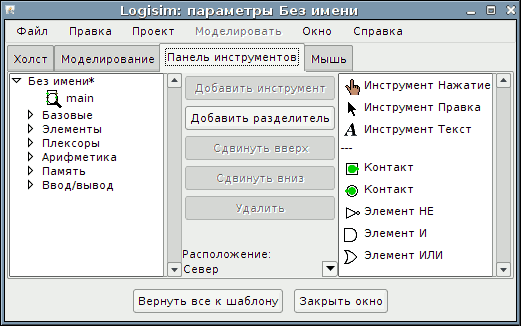
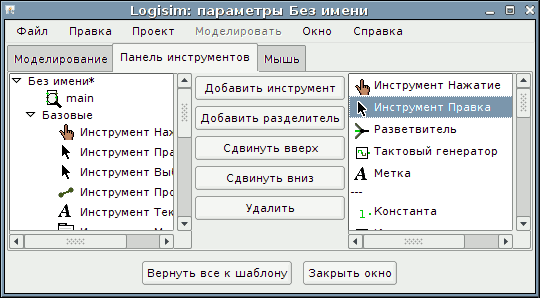
Ru doc: updated pages and screen shots for new preferences dialogs. Two old screen shots are deleted from En version too.
git-svn-id: https://svn.code.sf.net/p/circuit/code/trunk@154 70edf91d-0b9e-4248-82e7-2488d7716404

diff --git a/doc/ru/html/guide/prefs/layout.html b/doc/ru/html/guide/prefs/layout.html
@@ -1,0 +1,37 @@
+<html>
+<head>
+    <meta http-equiv="content-type" content="text/html; charset=UTF-8">
+	<title>Вкладка Чертёж</title>
+</head>
+<body bgcolor="FFFFFF">
+
+<h1>Вкладка Чертёж</h1>
+
+<center><img src="../../../img-guide/prefs-layout.png"></center>
+
+<p>На этой вкладке находятся настройки, влияющие на поведение редактора чертежа схемы.</p>
+<ul>
+
+<li><p><b>Вид для печати:</b> определяет, показывать ли схемы на экране так же, как они выводятся через принтер. Как правило этот пункт отключен, и Logisim показывает схемы на экране с отображением текущего состояния схемы и выводит некоторые подсказки связанные с интерфейсом компонентов (самое заметное - он отрисовывает ножки элементов ИЛИ чтобы показать, где они должны присоединяться). А вид для печати не показывает состояние и эти подсказки по интерфейсу.</p></li> 
+ 
+<li><p><b>Показывать ореол:</b> определяет, нужно ли рисовать голубой овал вокруг компонента или инструмента, атрибуты которого в данный момент отображаются в таблице атрибутов.</p></li> 
+ 
+<li><p><b>Показывать подсказки для компонентов:</b> указывает, следует ли отображать "подсказки", которые будут появляться на время при наведении указателя мыши на компоненты, поддерживающие их. Например, если вы подержите указатель над контактом компонента подсхемы, то отобразится метка соответствующего контакта внутри подсхемы. Наведение курсора на один из концов разветвителя скажет вам, каким битам соответствует этот конец. Кроме того, все компоненты библиотек Плексоры, Арифметика и Память предоставляют информацию о своих входах и выходах через подсказки.</p></li> 
+
+<li><p><b>Сохранять соединения при перемещении:</b> указывает, должен ли Logisim добавлять новые провода, когда компоненты перемещены, чтобы сохранять их соединения. По умолчанию он включен - хотя он может быть временно отключен нажатием клавиши Shift при перемещении компонентов. Если этот флажок отключен, то по умолчанию при перемещении провода не будут добавляться - но вы можете включить это временно нажатием клавиши Shift при перемещении.</p></li>
+
+
+<li><p><b>Показывать призраки во время добавления:</b> когда включено, и когда выбран инструмент для добавления нового компонента, при движении мыши по холсту отрисовывается светло-серый контур компонента. Например, если вы выбираете инструмент Элемент И, и двигаете мышь по окну (без нажатия кнопки мыши), то серый контур элемента И отрисовывается там, где элемент И появится после нажатия мыши.</p></li>
+
+<li><p><b>После добавления компонента:</b> по умолчанию, после добавления каждого компонента, Logisim переключается на Инструмент Правка, позволяющий перемещать компоненты и добавлять провода. Этот выпадающий список позволяет вам изменить это поведение так, чтобы Logisim оставался на том же инструменте для добавления ещё одного такого же компонента, пока вы сами не выберите Инструмент Правка. (Это было поведение Logisim по умолчанию до Logisim 2.3.0. Хотя такое поведение более интуитивно, оно требует больше перемещений мыши для переключения между инструментами.)</p></li>
+
+<li><p><strong>Первое основание при взаимодействии с проводом:</strong> настраивает, как отображаются значения, когда на проводе щёлкнули Инструментом Нажатие. Щелчок на проводе временно отображает значение, пока пользователь не щёлкнет в другом месте схемы.</p></li>
+
+<li><p><strong>Второе основание при нажатии на провод:</strong> настраивает вторую часть отображаемого значения.</p></li>
+
+</ul>
+
+<p><strong>Далее:</strong> <em><a href="exp.html">Вкладка Экспериментальные</a></em>.</p>
+
+</body>
+</html>

diff --git a/doc/ru/html/guide/subcirc/using.html b/doc/ru/html/guide/subcirc/using.html
@@ -16,7 +16,7 @@
 <center><img src="../../../img-guide/subcirc-4-done.png"></center>
 <p>Наша схема для мультиплексора 4-в-1 использует три копии мультиплексора 2-в-1, каждая из которых отрисована в виде коробки с контактами вдоль краёв. Контакты на этой коробке соответствую входным и выходным контактам в схеме 2:1 MUX. Два контакта на западном крае коробки соответствуют двум контактам, направленным на восток в схеме 2:1 MUX; контакт на восточной стороне коробки соответствует контакту схемы 2:1 MUX, направленному на запад (который является выходным контактом); а контакт на южной стороне коробки соответствует контакту схемы 2:1 MUX, направленному на север. Порядок контактов на западной стороне коробки соответствует их порядку сверху вниз на чертеже подсхемы. (Если бы было несколько контактов на северной или южной стороне коробки, то их порядок соответствовал бы порядку слева направо в подсхеме.)</p>
 
-<p>Если контакты на чертеже подсхемы имеют метки, связанные с ними, то Logisim будет показывать эти метки в <strong>подсказке</strong> (то есть во временном текстовом поле), когда пользователь наведёт мышь на соответствующее место компонента подсхемы. (Если вы находите эти подсказки раздражающими, вы можете отключить их через <a href="../opts/canvas.html">вкладку Холст окна Параметры Проекта</a>.)</p>
+<p>Если контакты на чертеже подсхемы имеют метки, связанные с ними, то Logisim будет показывать эти метки в <strong>подсказке</strong> (то есть во временном текстовом поле), когда пользователь наведёт мышь на соответствующее место компонента подсхемы. (Если вы находите эти подсказки раздражающими, вы можете отключить их через <a href="../prefs/layout.html">вкладку Чертёж окна Настройки</a>.)</p>
 <center><img src="../../../img-guide/subcirc-4-tip.png"></center>
 <p>Некоторые другие компоненты тоже будут показывать эти подсказки: для некоторых контактов встроенных <a href="../../libs/mem/flipflops.html">триггеров</a>, например, проведение мышью над ними объясняет, что делает этот контакт.</p>
 

diff --git a/doc/ru/html/guide/prefs/window.html b/doc/ru/html/guide/prefs/window.html
@@ -1,0 +1,28 @@
+<html>
+<head>
+    <meta http-equiv="content-type" content="text/html; charset=UTF-8">
+	<title>Вкладка Окно</title>
+</head>
+<body bgcolor="FFFFFF">
+
+<h1>Вкладка Окно</h1>
+
+<center><img src="../../../img-guide/prefs-window.png"></center>
+
+<p>На этой вкладке находятся настройки, влияющие на внешний вид главного окна Logisim.</p>
+<ul>
+
+<li><p><b>Показать скорость тактов:</b> если выбрано, то когда такты включены, Logisim отображает скорость, с которой он выполняет такты. Скорость тактов измеряется как средняя за предыдущую 1000 тактов. (Выключение тактов или изменение максимальной тактовой частоты очистит эту историю.)</p>
+
+<p>Эта фактическая скорость тактов может быть намного меньше, чем вы бранная тактовая частота, потому что Logisim не может моделировать большие схем с очень большой скоростью. Например, максимальная скорость Logisim для достаточно большой схемы может быть 16 Гц; вы можете выбрать более высокую тактовую частоту, но фактическая скорость не будет превышать 16 Гц.</p></li>
+
+<li><p><b>Показать панель инструментов проекта:</b> когда выбрано, выше панели проводника доступна маленькая панель инструментов. Эта панель инструментов предоставляет пользователю простой доступ к добавлению, переименованию, переупорядочиванию и удалению схем из проекта, а также поддерживает переключение между редактированием чертежа схемы и её внешнего вида.</p></dd>
+
+</li><li><p><b>Расположение панели инструментов:</b> это выпадающее меню настраивает расположение панели инструментов в пределах окна. Панель инструментов может быть расположена вдоль любой из границ окна, обозначенных как север, юг, восток и запад. Она также может быть скрыта или расположена "посередине вниз" - то есть слева от холста, но справа от панели проводника и таблицы атрибутов.</p></li>
+
+</ul>
+
+<p><strong>Далее:</strong> <em><a href="layout.html">Вкладка Чертёж</a></em>.</p>
+
+</body>
+</html>

diff --git a/doc/ru/html/guide/menu/file.html b/doc/ru/html/guide/menu/file.html
@@ -15,6 +15,9 @@
 <dt><strong>Открыть...</strong></dt>
 <dd><p>Открывает существующий файл как проект в новом окне.</p></dd>
 
+<dt><strong>Открыть недавние</strong></dt>
+<dd><p>Открывает недавно открытый проект в новом окне без приглашения пользователя к навигации через диалог выбора файла.</p></dd>
+
 <dt><strong>Закрыть</strong></dt>
 <dd><p>Закрывает все окна, связанные с просматриваемым в данный момент проектом.</p></dd>
 
@@ -49,7 +52,7 @@
 
 <li><b>Масштабный коэффициент:</b> с помощью этого ползунка вы можете изменять масштаб изображений, в котором они сохраняются в файлы.</li>
 
-<li><b>Вид для печати:</b> следует ли использовать "<a href="../opts/canvas.html">вид для печати</a>" при экспорте схем.</li>
+<li><b>Вид для печати:</b> следует ли использовать "<a href="../prefs/layout.html">вид для печати</a>" при экспорте схем.</li>
 
 </ul>
 <p>После нажатия OK Logisim покажет диалоговое окно выбора файла. Если вы выбрали одну схему, выберите файл, в который изображение должно быть помещено. Если вы выбрали несколько схем, выберите директорию, куда файлы должны быть помещены; Logisim назовёт изображения, основываясь на названиях схем (<tt>main.png</tt> например).</p>
@@ -71,7 +74,7 @@
 
 <li><b>Повернуть для подгонки:</b> если установлено, то Logisim будет поворачивать каждую схему на 90 градусов, когда схема слишком велика, чтобы уместиться на странице, и её не нужно так же сильно масштабировать, когда она повёрнута на 90 градусов.</li>
 
-<li><b>Вид для печати:</b> следует ли использовать "<a href="../opts/canvas.html">вид для печати</a>" при печати схем.</li>
+<li><b>Вид для печати:</b> следует ли использовать "<a href="../prefs/layout.html">вид для печати</a>" при печати схем.</li>
 
 </ul>
 <p>После нажатия OK Logisim покажет диалоговое окно установок страницы до печати схем.</p>

diff --git a/doc/ru/html/guide/opts/index.html b/doc/ru/html/guide/opts/index.html
@@ -10,15 +10,15 @@
 <p>Logisim поддерживает две категории параметров конфигурации: <em>настройки приложения</em> и <em>параметры проекта</em>. Настройки приложения охватывают все открытые проекты, а параметры проекта специфичны для одного определённого проекта. В этом разделе рассматриваются параметры проекта; <a href="../prefs/">настройки приложения</a> описаны в другом разделе.</p>
 
 <p>Вы можете просматривать и редактировать параметры проекта через пункт Параметры... из меню Проект. Это вызовет окно Параметры с четырьмя вкладками.</p.
-><center><img src="../../../img-guide/opts-canvas.png"></center>
+><center><img src="../../../img-guide/opts-simulate.png"></center>
 <p>Мы будем обсуждать каждую из этих вкладок отдельно.</p>
 <blockquote>
-	<a href="canvas.html">Вкладка Холст</a> <br><a href="simulate.html">Вкладка Моделирование</a> <br><a href="toolbar.html">Вкладка Панель инструментов</a> <br><a href="mouse.html">Вкладка Мышь</a>
+	<a href="simulate.html">Вкладка Моделирование</a> <br><a href="toolbar.html">Вкладка Панель инструментов</a> <br><a href="mouse.html">Вкладка Мышь</a>
 </blockquote>
 
 <p>В нижней части окна есть кнопка Вернуть все к шаблону. При её нажатии все параметры и атрибуты инструментов заменяются на настройки из текущего шаблона (выбранного в <a href="../prefs/">настройках приложения</a>).</p>
 
-<p><strong>Далее:</strong> <a href="canvas.html">Вкладка Холст</a>.</p>
+<p><strong>Далее:</strong> <a href="simulate.html">Вкладка Моделирование</a>.</p>
 
 </body>
 </html>

diff --git a/doc/ru/html/guide/prefs/exp.html b/doc/ru/html/guide/prefs/exp.html
@@ -13,10 +13,6 @@
 
 <ul>
 
-<li><p><b>Показать скорость тактов:</b> если выбрано, то когда такты включены, Logisim отображает скорость, с которой он выполняет такты. Скорость тактов измеряется как средняя за предыдущую 1000 тактов. (Выключение тактов или изменение максимальной тактовой частоты очистит эту историю.)</p>
-
-<p>Эта фактическая скорость тактов может быть намного меньше, чем вы бранная тактовая частота, потому что Logisim не может моделировать большие схем с очень большой скоростью. Например, максимальная скорость Logisim для достаточно большой схемы может быть 16 Гц; вы можете выбрать более высокую тактовую частоту, но фактическая скорость не будет превышать 16 Гц.</p></li>
-
 <li><b>Ускорение графики:</b> один из пользователей Logisim отметил, что добавление <tt>-Dsun.java2d.d3d=True</tt> к командной строке кажется улучшает производительность графики Logisim, заставляя его использовать аппаратное ускорение графики. Этот выпадающий список пытается настроить Logisim так, чтобы эта возможность была включена; сообщения о том, влияет ли этот список на производительность, будут приветствоваться. Это не будет иметь никакого эффекта, пока Logisim не будет перезапущен.</p></li>
 
 </ul>

diff --git a/doc/ru/html/libs/base/wiring.html b/doc/ru/html/libs/base/wiring.html
@@ -50,7 +50,7 @@ href="../gates/controlled.html">Управляемый буфер</a>), Logisim 
 
 <p>Когда вы щёлкаете на существующем сегменте провода, используя Инструмент Нажатие, Logisim показывает текущее значение, передаваемое через этот провод. На практике такое поведение полезно для многобитных проводов, чёрный цвет которых не предоставляет никакой информации о том, какое значение передаёт провод.</p>
 
-<p>Для многобитных значений вы можете настроить, как отображается значение (в двоичном, десятичном или шестнадцатеричном виде, например), используя <a href="../../guide/opts/canvas.html">вкладку Холст</a> диалогового окна Параметры проекта.
+<p>Для многобитных значений вы можете настроить, как отображается значение (в двоичном, десятичном или шестнадцатеричном виде, например), используя <a href="../../guide/prefs/layout.html">вкладку Чертёж</a> диалогового окна Настройки Logisim.
 
 <p><a href="../index.html">Назад к <em>Справке по библиотеке</em></a></p>
 

diff --git a/doc/ru/html/guide/prefs/index.html b/doc/ru/html/guide/prefs/index.html
@@ -11,7 +11,7 @@
 
 <p>Вы можете просматривать и редактировать настройки приложения через пункт Настройки... из меню Файл (или из меню Logisim на Mac OS); появится окно с несколькими вкладками. Мы будем обсуждать эти вкладки по отдельности, а потом мы посмотрим, как настройки могут быть заданы с помощью командной строки.</p>
 <blockquote>
-	<a href="template.html">Вкладка Шаблон</a> <br><a href="tools.html">Вкладка Инструменты</a> <br><a href="intl.html">Вкладка Интернациональные</a> <br><a href="exp.html">Вкладка Экспериментальные</a> <br><a href="cmdline.html">Командная строка</a>
+	<a href="template.html">Вкладка Шаблон</a> <br><a href="intl.html">Вкладка Интернациональные</a> <br><a href="window.html">Вкладка Окно</a> <br><a href="layout.html">Вкладка Чертёж</a> <br><a href="exp.html">Вкладка Экспериментальные</a> <br><a href="cmdline.html">Командная строка</a>
 </blockquote>
 
 <p><strong>Далее:</strong> <a href="template.html">Вкладка Шаблон</a>.</p>

diff --git a/doc/ru/html/guide/menu/project.html b/doc/ru/html/guide/menu/project.html
@@ -56,9 +56,6 @@ href="../attrlib/explore.html">в другом месте <em>Руководст
 
 <p>Если вы используете схемы из загруженной библиотеки Logisim, то эти компоненты считаются <q>чёрными ящиками</q>: содержимое схем библиотеки не включается в количество уникальных и подсчитанных рекурсивно.</p></dd>
 
-<dt><strong>Показать панель инструментов проекта</strong></dt>
-<dd><p>Когда этот пункт меню выбран, небольшая панель будет отображена над панелью проводника, предоставляя пользователю простой доступ к добавлению, переименованию, переупорядочиванию и удалению схем из проекта. Панель инструментов также поддерживает переключение между редактированием чертежа схемы и её внешнего вида.</p></dd>
-
 <dt><strong>Параметры...</strong></dt>
 <dd><p>Открывает <a href="../opts/index.html">окно Параметры проекта</a>.</p></dd>
 

diff --git a/doc/ru/html/guide/opts/toolbar.html b/doc/ru/html/guide/opts/toolbar.html
@@ -22,8 +22,6 @@
 
 <li><p><strong>Удалить</strong> удаляет выбранный элемент с панели инструментов.</p></li>
 
-<li><p><strong>Расположение:</strong> настраивает расположение панели инструментов в пределах окна. Панель инструментов может быть расположена вдоль любой из границ окна, обозначенных как север, юг, восток и запад. Она также может быть скрыта или расположена "посередине вниз" - то есть слева от холста, но справа от панели проводника и таблицы атрибутов.</p></li>
-
 </ul>
 <p>Атрибуты, связанные с инструментами, не отображаются в этом окне, вместо этого вы можете просматривать и редактировать их в главном окне рисования программы.</p>
 

diff --git a/doc/ru/html/contents.html b/doc/ru/html/contents.html
@@ -60,14 +60,14 @@
   </ul></li>
   <li><a id="prefs">Настройки приложения</a><ul>
   	<li><a id="prefs_template">Вкладка Шаблон</a></li>
-  	<li><a id="prefs_tools">Вкладка Инструменты</a></li>
   	<li><a id="prefs_intl">Вкладка Интернациональные</a></li>
+  	<li><a id="prefs_window">Вкладка Окно</a></li>
+  	<li><a id="prefs_layout">Вкладка Чертёж</a></li>
   	<li><a id="prefs_exp">Вкладка Экспериментальные</a></li>
   	<li><a id="prefs_cmdline">Командная строка</a></li>
   </ul></li>
   <li><a id="opts">Параметры проекта</a>
-  	</li><li><a id="opts_canvas">Вкладка Холст</a></li>
-  	<li><a id="opts_simulate">Вкладка Моделирование</a></li>
+  	</li><li><a id="opts_simulate">Вкладка Моделирование</a></li>
   	<li><a id="opts_toolbar">Вкладка Панель инструментов</a></li>
   	<li><a id="opts_mouse">Вкладка Мышь</a></li>
   </ul></li>

diff --git a/doc/ru/html/guide/prefs/intl.html b/doc/ru/html/guide/prefs/intl.html
@@ -9,7 +9,7 @@
 
 <center><img src="../../../img-guide/prefs-intl.png"></center>
 
-<p>Эти настройки позволяют Logisim использоваться во многих странах. Вкладка включает три опции.</p>
+<p>Эта вкладка позволяет настроить Logisim в соответствии с региональными предпочтениями.</p>
 <ul>
 
 <li><p><b>Форма элементов:</b> Logisim поддерживает три стандарта для отрисовки логических элементов: <em>фигурные</em> элементы, <em>прямоугольные</em> элементы, и элементы <em>DIN 40700</em>. В следующей таблице приведены различия.</p>
@@ -49,7 +49,7 @@
 
 </ul>
 
-<p><strong>Далее:</strong> <em><a href="exp.html">Вкладка Экспериментальные</a></em>.</p>
+<p><strong>Далее:</strong> <em><a href="window.html">Вкладка Окно</a></em>.</p>
 
 </body>
 </html>
